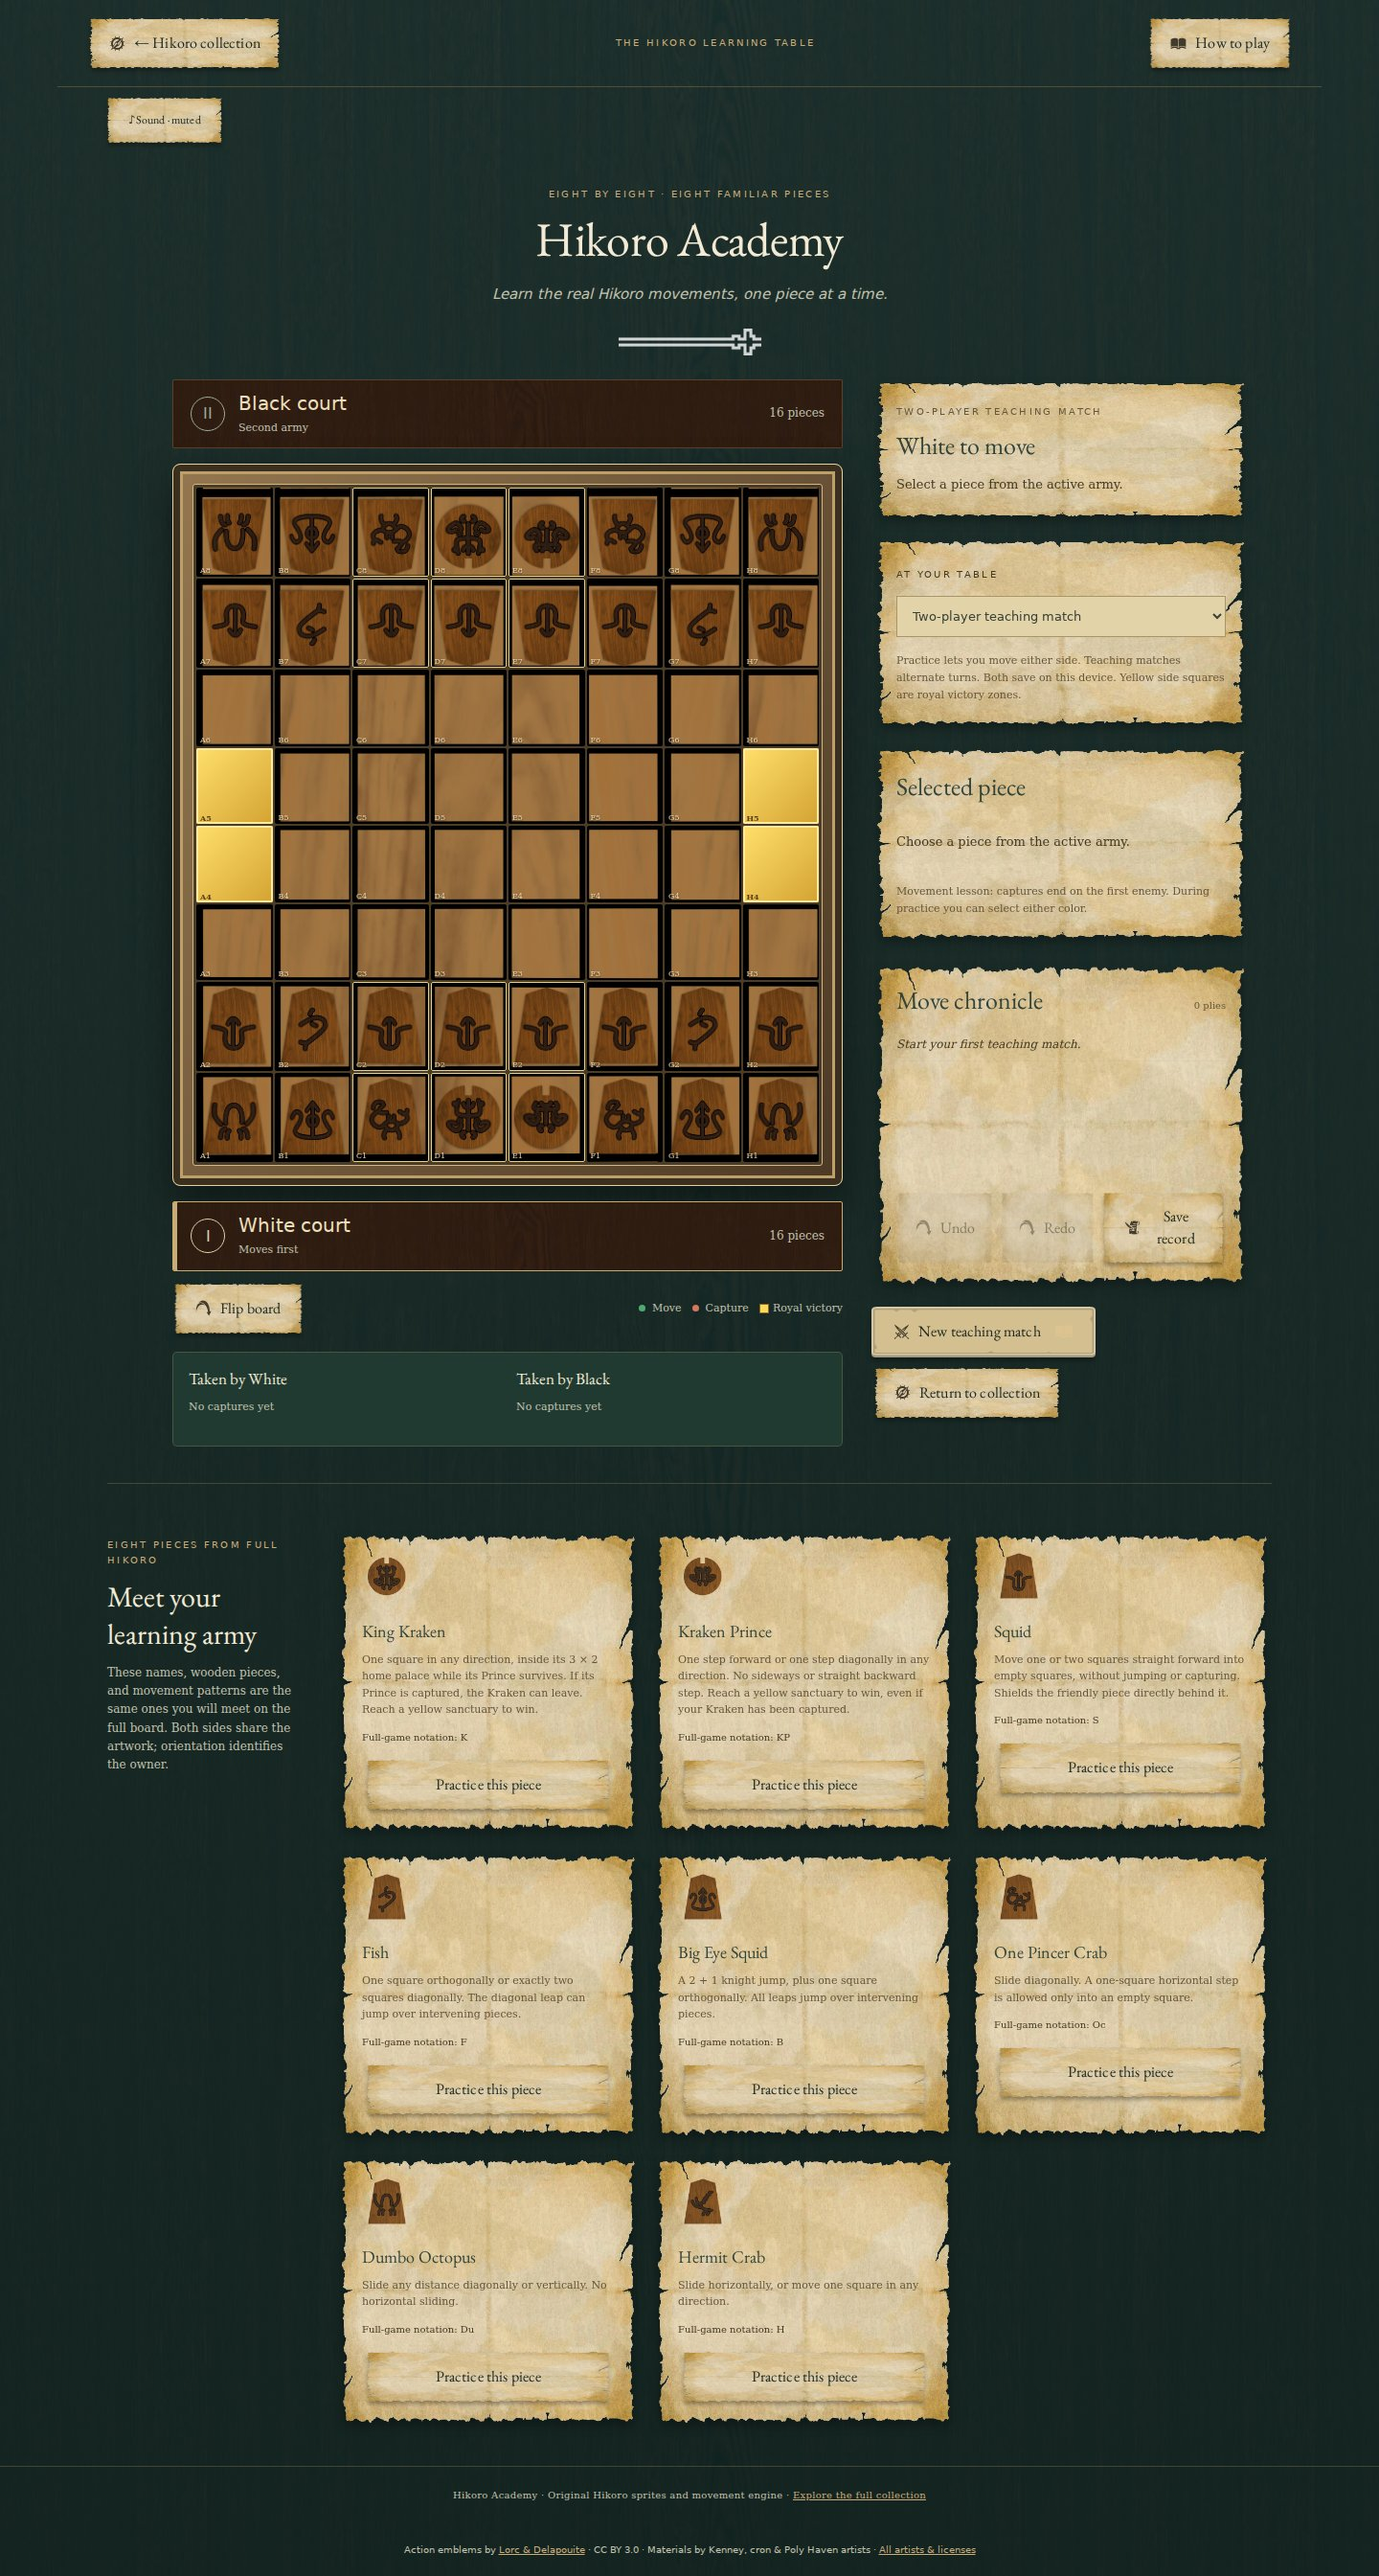
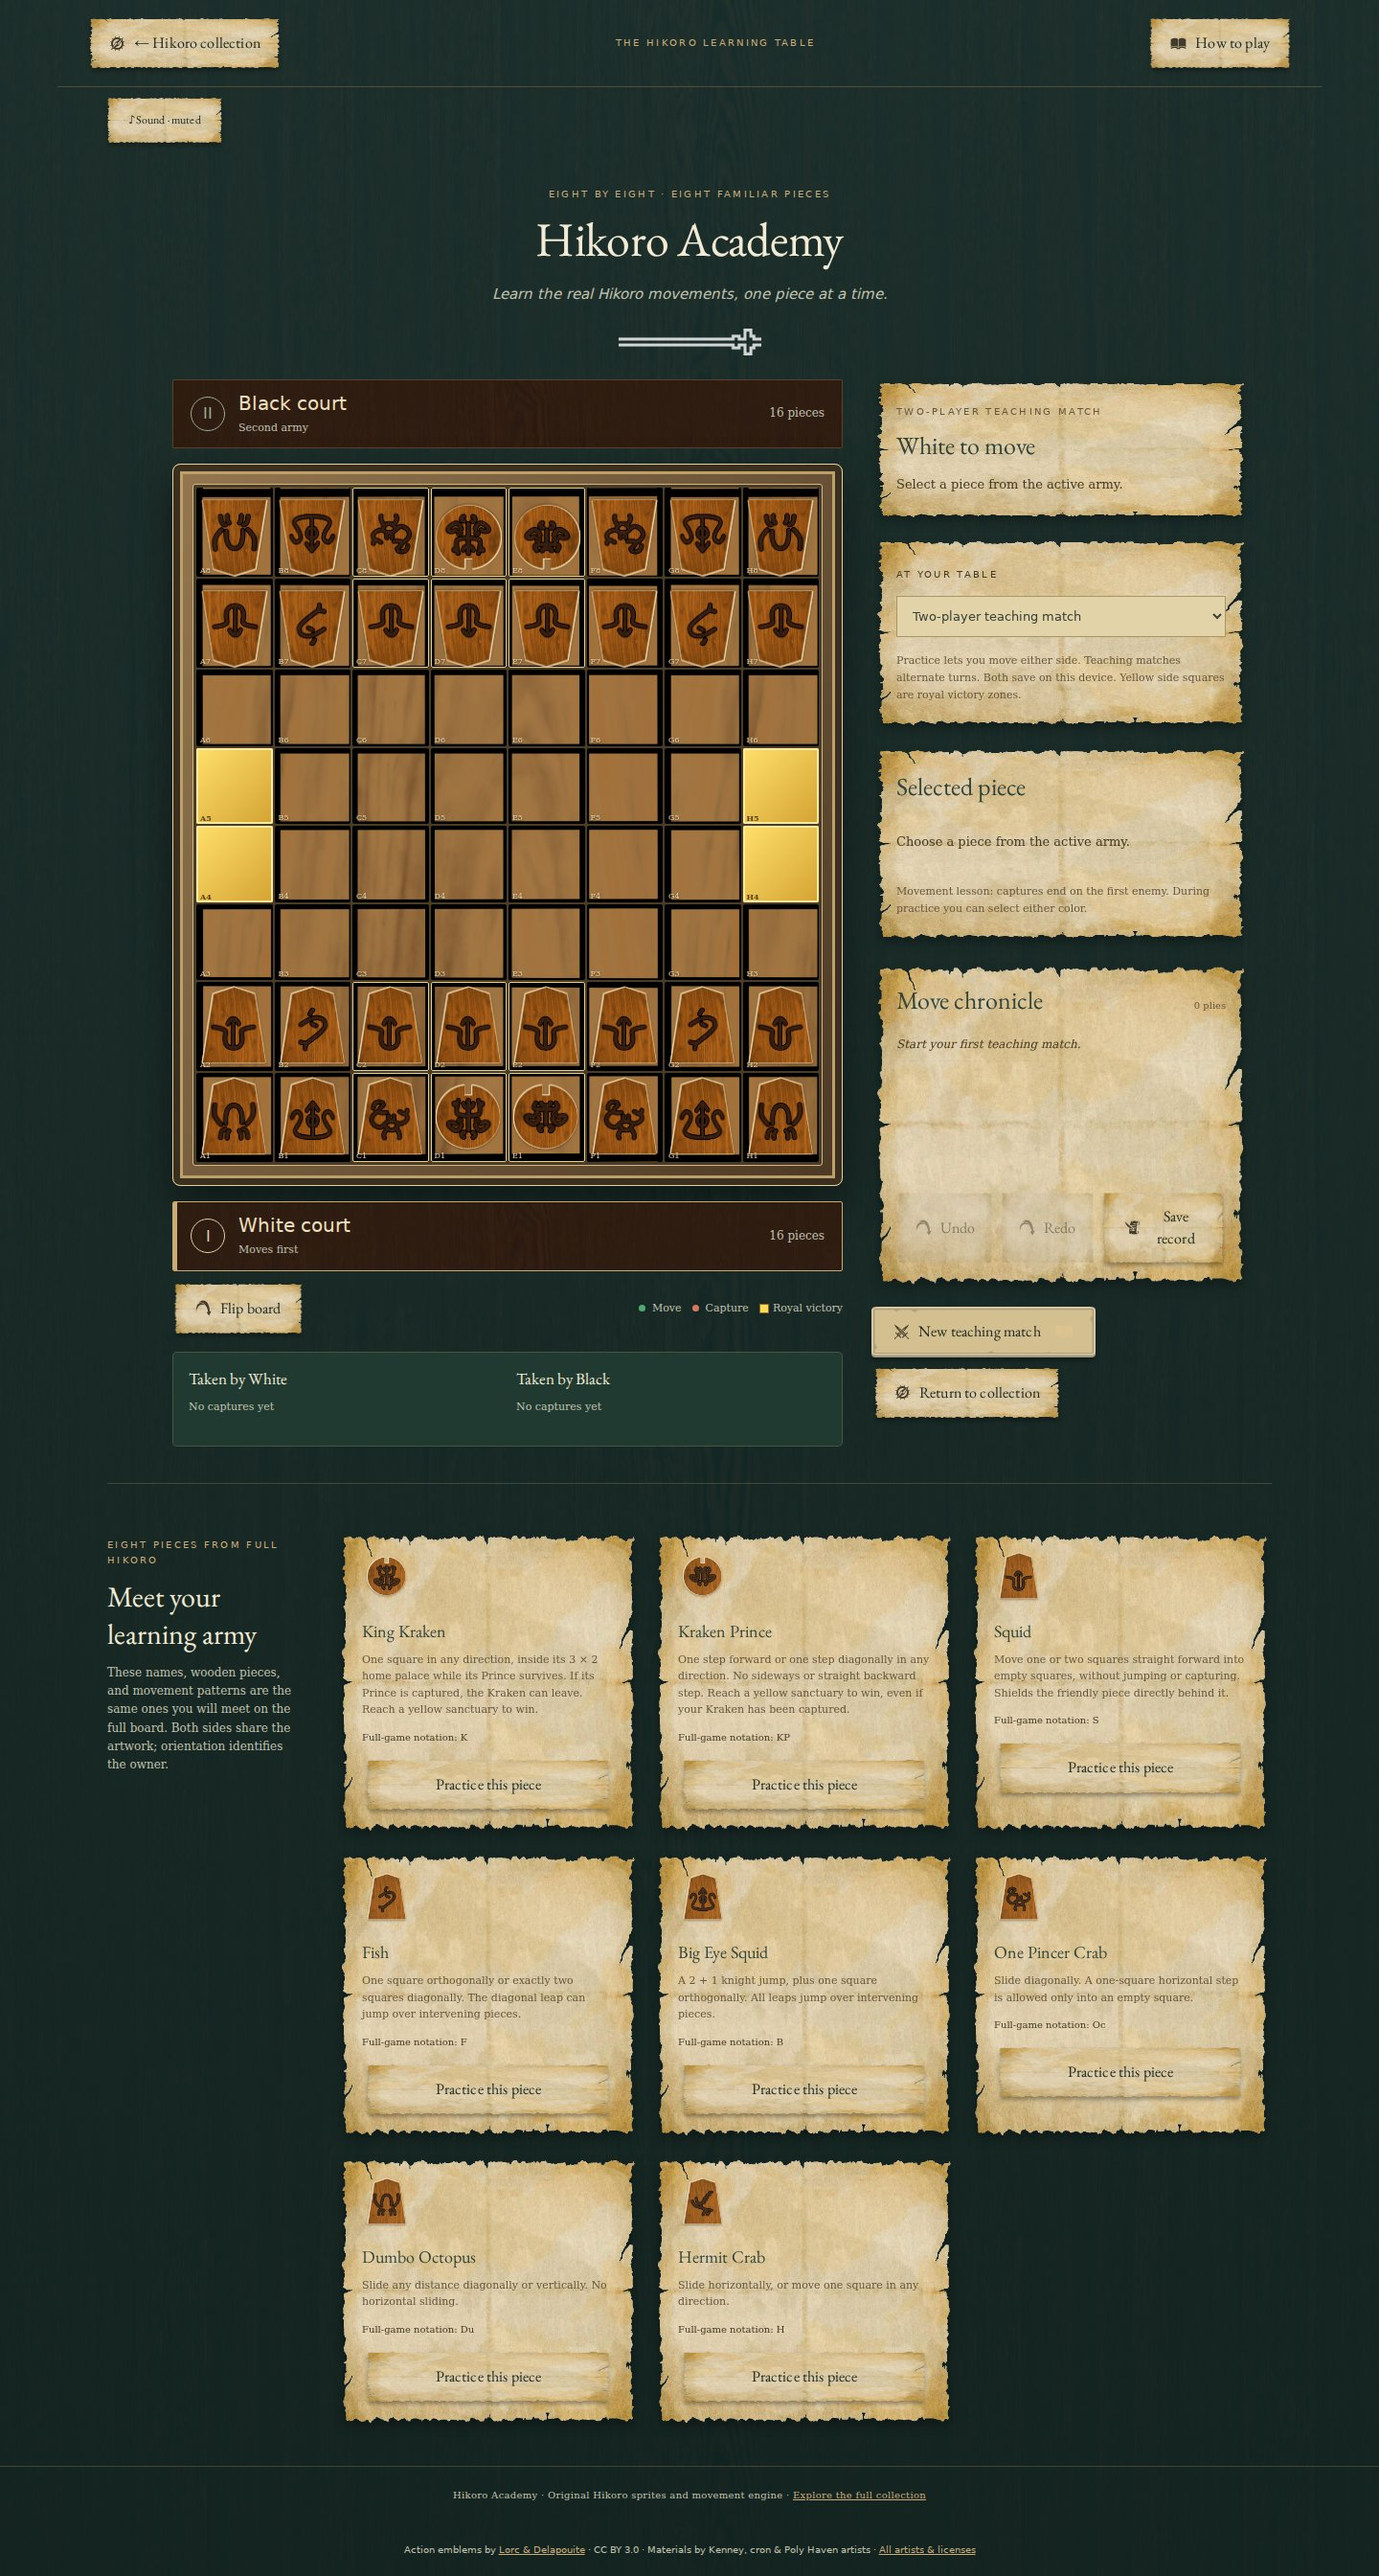
Brighten wooden Hikoro pieces and add subtle cream edges
Use one shared display filter for both owners on boards, hands, guides and move animations. Keep supplied artwork files intact and refresh match cards and desktop/phone previews.

diff --git a/HikoroChess/public/hikoro-artwork.css b/HikoroChess/public/hikoro-artwork.css
@@ -1,8 +1,11 @@
-/* Supplied artwork; ownership changes orientation, never color. */
+/* Supplied artwork; ownership changes orientation, never color.
+   A shared display filter improves separation from the wood without editing assets. */
+:root{--hikoro-piece-filter:brightness(1.28) contrast(1.08) drop-shadow(.65px 0 0 #f4dfb4bb) drop-shadow(-.65px 0 0 #f4dfb4bb) drop-shadow(0 .65px 0 #f4dfb4bb) drop-shadow(0 -.65px 0 #f4dfb4bb) drop-shadow(0 1px 1px #24180c66)}
+.hikoro-site .piece-entry img,.hikoro-site .flying-piece img,.academy-table .guide-card img,.academy-table .selection-detail img,.academy-table .capture-list img{filter:var(--hikoro-piece-filter)}
 .hikoro-site #game-board{background:url('assets/hikoro-wood/board.webp') center/100% 100% no-repeat transparent}
 .hikoro-site #game-board .square{background:transparent!important;border:0}
 .hikoro-site #game-board .square.invalid{background:transparent!important;pointer-events:none}
-.hikoro-site #game-board .piece img,.academy-table .mini-piece img{image-rendering:auto;width:94%;height:94%;object-fit:contain;filter:drop-shadow(0 1px 1px #0007)}
+.hikoro-site #game-board .piece img,.academy-table .mini-piece img{image-rendering:auto;width:94%;height:94%;object-fit:contain;filter:var(--hikoro-piece-filter)}
 .hikoro-site #game-board>.corner-hand{position:absolute;inset:0;width:100%!important;height:100%;min-height:0!important;display:grid!important;grid-template-columns:repeat(10,1fr);grid-template-rows:repeat(16,1fr);background:none!important;border:0!important;padding:0!important;gap:0;overflow:visible!important;pointer-events:none;z-index:4}
 .hikoro-site #game-board .corner-hand .captured-piece{width:100%;height:100%;min-height:0;border:1px solid #b7935555;background:linear-gradient(#79592d33,#39260f33)!important;padding:0;pointer-events:auto;cursor:pointer;border-radius:3px;opacity:1;position:relative}
 .hikoro-site #game-board .corner-hand .captured-piece:disabled{cursor:default;opacity:1}

diff --git a/docs/wood-art/README.md b/docs/wood-art/README.md
@@ -1,6 +1,6 @@
 # Supplied wooden Hikoro artwork
 
-Updates the full Hikoro game and Academy to use the nineteen supplied piece images. Both armies share one asset per type, with ownership shown by rotation relative to the viewer. The full game uses the supplied 10 × 16 board; captured hands occupy the twelve unused corner cells at each end. Duplicate types display a count. Academy retains its 8 × 8 geometry and uses the supplied wood texture.
+Updates the full Hikoro game and Academy to use the nineteen supplied piece images. Pieces use a shared 28% brightness boost, slight contrast increase, and fine cream edge through CSS; the supplied image pixels remain unchanged. Both armies share one asset per type, with ownership shown by rotation relative to the viewer. The full game uses the supplied 10 × 16 board; captured hands occupy the twelve unused corner cells at each end. Duplicate types display a count. Academy retains its 8 × 8 geometry and uses the supplied wood texture.
 
 ## Previews
 
